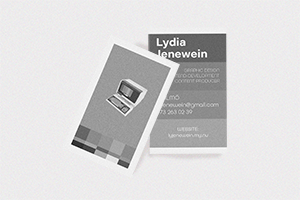
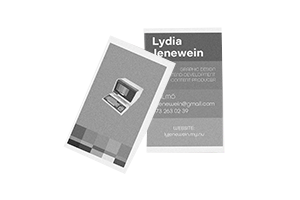
add of pictures on pages

diff --git a/public_html/graphicdesign.html b/public_html/graphicdesign.html
@@ -42,7 +42,7 @@
             <div class="grid-container col-2">
                 <div class="grid-item overlay-container" data-gridcolor="pink"> 
                     <a href="graphicdesignpages/businesscard2019.html">
-                        <img src="images/icons.png"> 
+                        <img src="images/businesscard_noise.png"> 
                         <div class="overlay">
                             <div class="text">Business Card</div>
                         </div>
@@ -50,7 +50,7 @@
                 </div>
                 <div class="grid-item overlay-container" data-gridcolor="blue"> 
                     <a href="graphicdesignpages/printonpoint.html">
-                        <img src="images/monogram.png"> 
+                        <img src="images/printonpoint_noise.png"> 
                         <div class="overlay">
                             <div class="text">Print on Point</div>
                         </div>
@@ -58,7 +58,7 @@
                 </div>
                 <div class="grid-item overlay-container" data-gridcolor="red"> 
                     <a href="graphicdesignpages/edumag.html">
-                        <img src="images/bubbensbar.png"> 
+                        <img src="images/magazine_noise.png"> 
                         <div class="overlay">
                             <div class="text">Magazine</div>
                         </div>

diff --git a/public_html/graphicdesignpages/printonpoint.html b/public_html/graphicdesignpages/printonpoint.html
@@ -62,10 +62,10 @@
                 <p>Lorem ipsum dolor sit amet consectetur adipisicing elit. Minus natus esse perferendis dolores officia ratione magnam illum, deleniti quae perspiciatis nobis temporibus facilis, atque eum soluta quas dolor. Voluptates, reiciendis?</p>
             </div>
             <div class="rulerofgrids col-2">
-                <div class="gridarmy"><img src="../images/websites/"></div>
-                <div class="gridarmy"><img src="../images/websites/"></div>
-                <div class="gridarmy"><img src="../images/websites/"></div>
-                <div class="gridarmy"><img src="../images/websites/"></div>
+                <div class="gridarmy"><img src="../images/websites/printonpointflyer.png"></div>
+                <div class="gridarmy"><img src="../images/websites/printonpoint1.png"></div>
+                <div class="gridarmy"><img src="../images/websites/printonpoint2.png"></div>
+                <div class="gridarmy"><img src="../images/websites/printonpoint3.PNG"></div>
             </div>
             <p class="small">**THE FOLDER IS JUST A MOCKUP!**</p>
             <div class="backto">

diff --git a/public_html/graphicdesignpages/edumag.html b/public_html/graphicdesignpages/edumag.html
@@ -62,10 +62,9 @@
                 <p>Lorem, ipsum dolor sit amet consectetur adipisicing elit. Qui culpa commodi sit repellat libero vero voluptatum suscipit atque, blanditiis ex nobis harum adipisci sunt velit consectetur. Unde possimus excepturi repellat?</p>
             </div>
             <div class="rulerofgrids col-2">
-                <div class="gridarmy"><img src="../images/websites/"></div>
-                <div class="gridarmy"><img src="../images/websites/"></div>
-                <div class="gridarmy"><img src="../images/websites/"></div>
-                <div class="gridarmy"><img src="../images/websites/"></div>
+                <div class="gridarmy"><img src="../images/websites/magazine_Page_1.png"></div>
+                <div class="gridarmy"><img src="../images/websites/magazine_Page_2.png"></div>
+                <div class="gridarmy"><img src="../images/websites/magazine1.png"></div>
             </div>
             <p class="small">**THE MAGAZINE IS JUST A MOCKUP!**</p>
             <div class="backto">

diff --git a/public_html/graphicdesignpages/businesscard2019.html b/public_html/graphicdesignpages/businesscard2019.html
@@ -62,10 +62,8 @@
                 <p>Lorem ipsum dolor sit, amet consectetur adipisicing elit. Nulla omnis, obcaecati excepturi illum, consequatur, quam cumque aperiam laboriosam corporis sapiente quae dolores qui voluptatem. Odit reprehenderit labore odio magni et?</p>
             </div>
             <div class="rulerofgrids col-2">
-                <div class="gridarmy"><img src="../images/websites/"></div>
-                <div class="gridarmy"><img src="../images/websites/"></div>
-                <div class="gridarmy"><img src="../images/websites/"></div>
-                <div class="gridarmy"><img src="../images/websites/"></div>
+                <div class="gridarmy"><img src="../images/websites/busnisscard1.png"></div>
+                <div class="gridarmy"><img src="../images/websites/businesscard2.png"></div>
             </div>
             <div class="backto">
                 <a href="../graphicdesign.html">Back to Graphic Designs!</a>

diff --git a/public_html/style.css b/public_html/style.css
@@ -456,6 +456,37 @@ a{
     background-size: cover;
     background-repeat: no-repeat;
 }
+
+.edumag-hero {
+    height: 50vh;
+    width: 100%; 
+    padding: 0;
+    position: relative;
+    background-image: url(images/websites/magazine_header.png);
+    background-size: cover;
+    background-repeat: no-repeat;
+}
+
+.printonpoint-hero {
+    height: 50vh;
+    width: 100%; 
+    padding: 0;
+    position: relative;
+    background-image: url(images/websites/printonpoint_header.png);
+    background-size: cover;
+    background-repeat: no-repeat;
+}
+
+.businesscard-hero {
+    height: 50vh;
+    width: 100%; 
+    padding: 0;
+    position: relative;
+    background-image: url(images/websites/businesscard_header.png);
+    background-size: cover;
+    background-repeat: no-repeat;
+}
+
 .spookyicons-hero{
     height: 50vh;
     width: 100%; 
